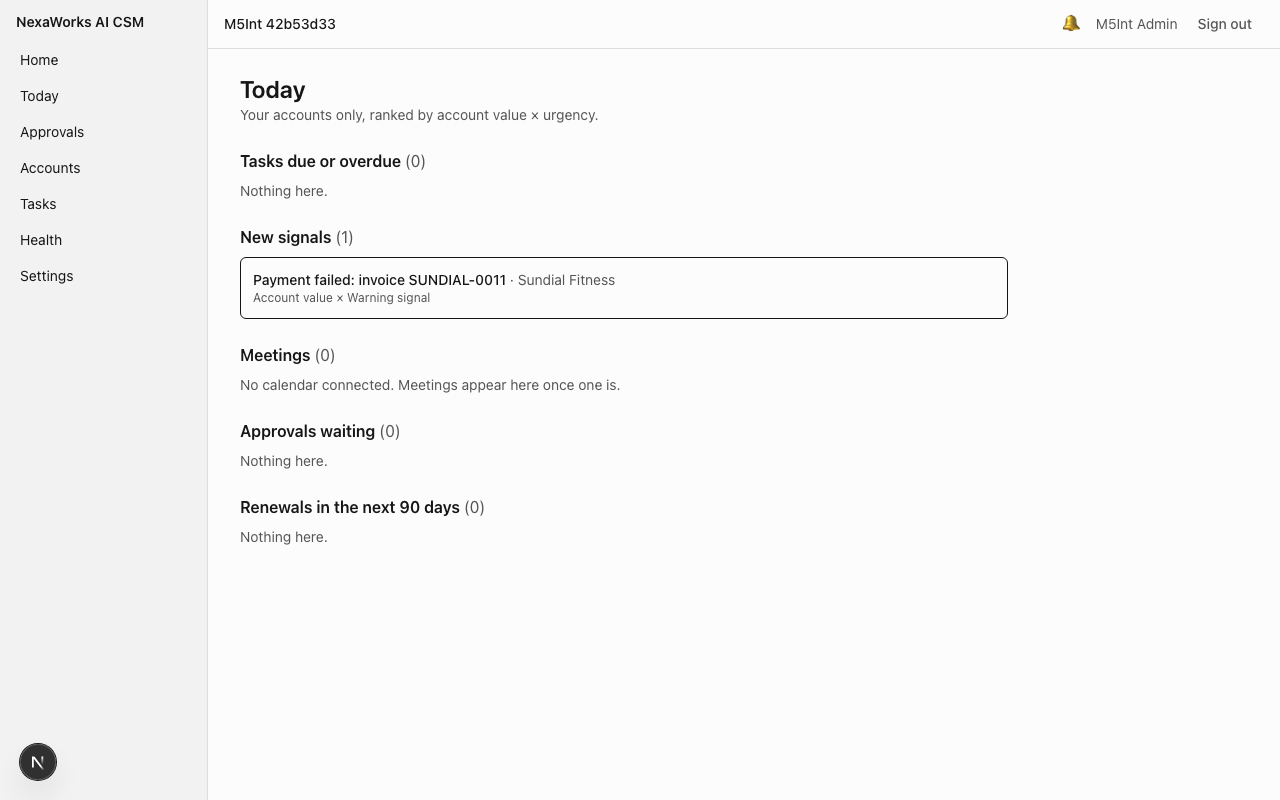
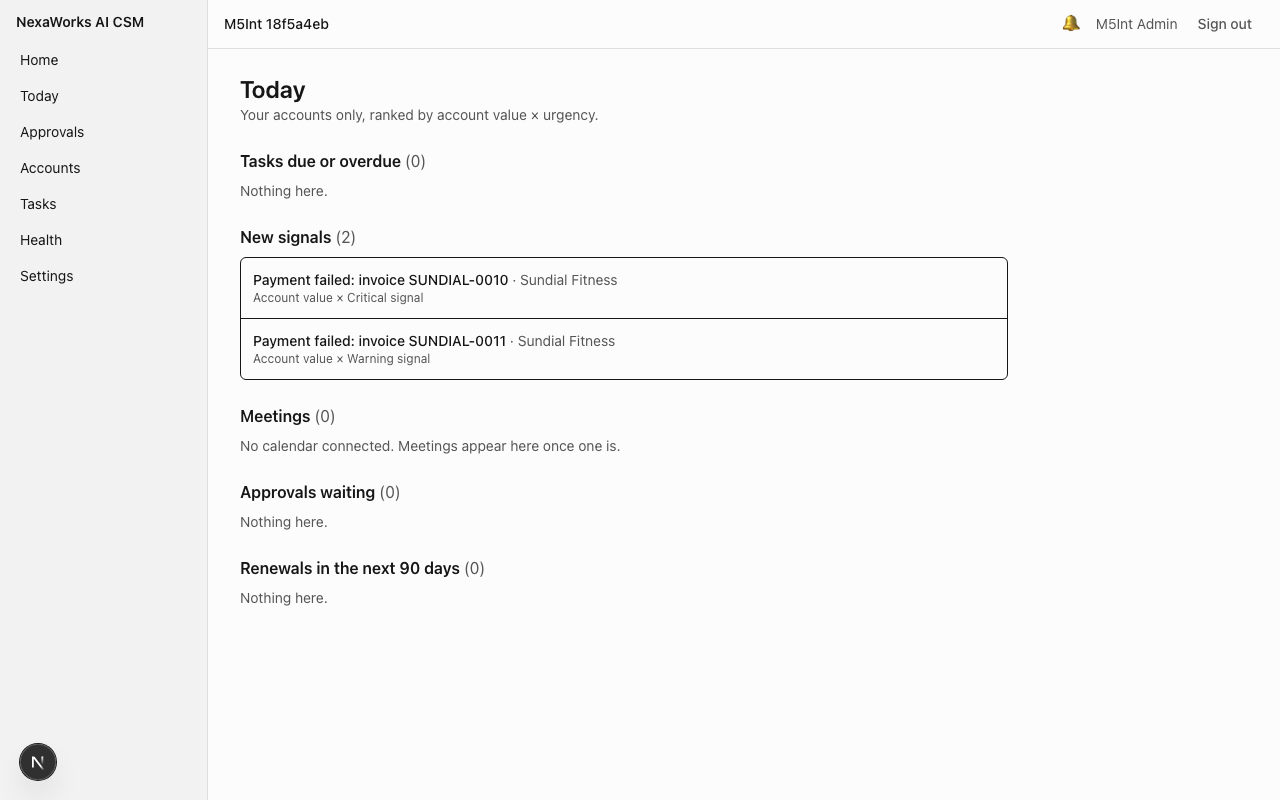
fix(settings): Setup tab last so /settings still opens Users for Admins
The Tier-2 e2e caught it: /settings redirects to the first allowed tab, and
B5 had put Setup first. No test changed.

diff --git a/src/app/(app)/settings/access.ts b/src/app/(app)/settings/access.ts
@@ -7,7 +7,6 @@ import { requireSession, resolveWorkspaceContext, type WorkspaceContext } from "
 /** Settings tabs and the permission each needs. A member sees only the tabs they may use. */
 export const SETTINGS_TABS: ReadonlyArray<{ label: string; href: Route; permission: Permission }> =
   [
-    { label: "Setup", href: "/setup", permission: "workspace:manageSettings" },
     { label: "Users", href: "/settings/users", permission: "workspace:manageUsers" },
     { label: "Workspace", href: "/settings/workspace", permission: "workspace:manageSettings" },
     { label: "Import", href: "/settings/import", permission: "data:import" },
@@ -18,6 +17,8 @@ export const SETTINGS_TABS: ReadonlyArray<{ label: string; href: Route; permissi
     { label: "Health model", href: "/settings/health-model", permission: "healthModel:propose" },
     { label: "AI team", href: "/settings/ai-team", permission: "audit:view" },
     { label: "Audit", href: "/settings/audit", permission: "audit:view" },
+    // Last on purpose: /settings opens the first allowed tab, which stays Users for Admins.
+    { label: "Setup", href: "/setup", permission: "workspace:manageSettings" },
   ];
 
 export const allowedSettingsTabs = (member: MemberAccess) =>
